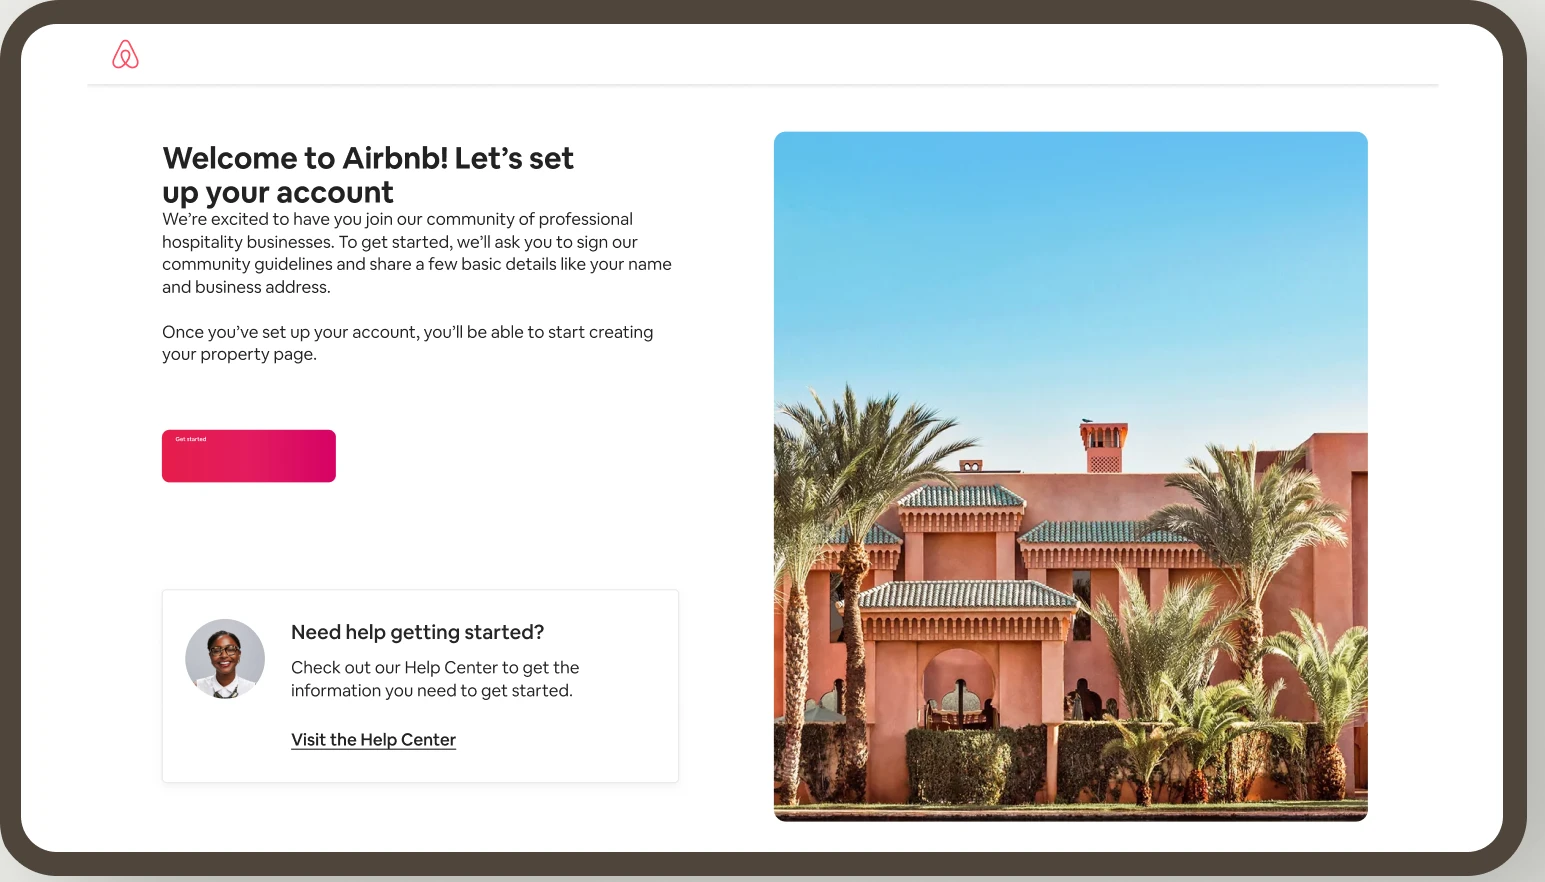
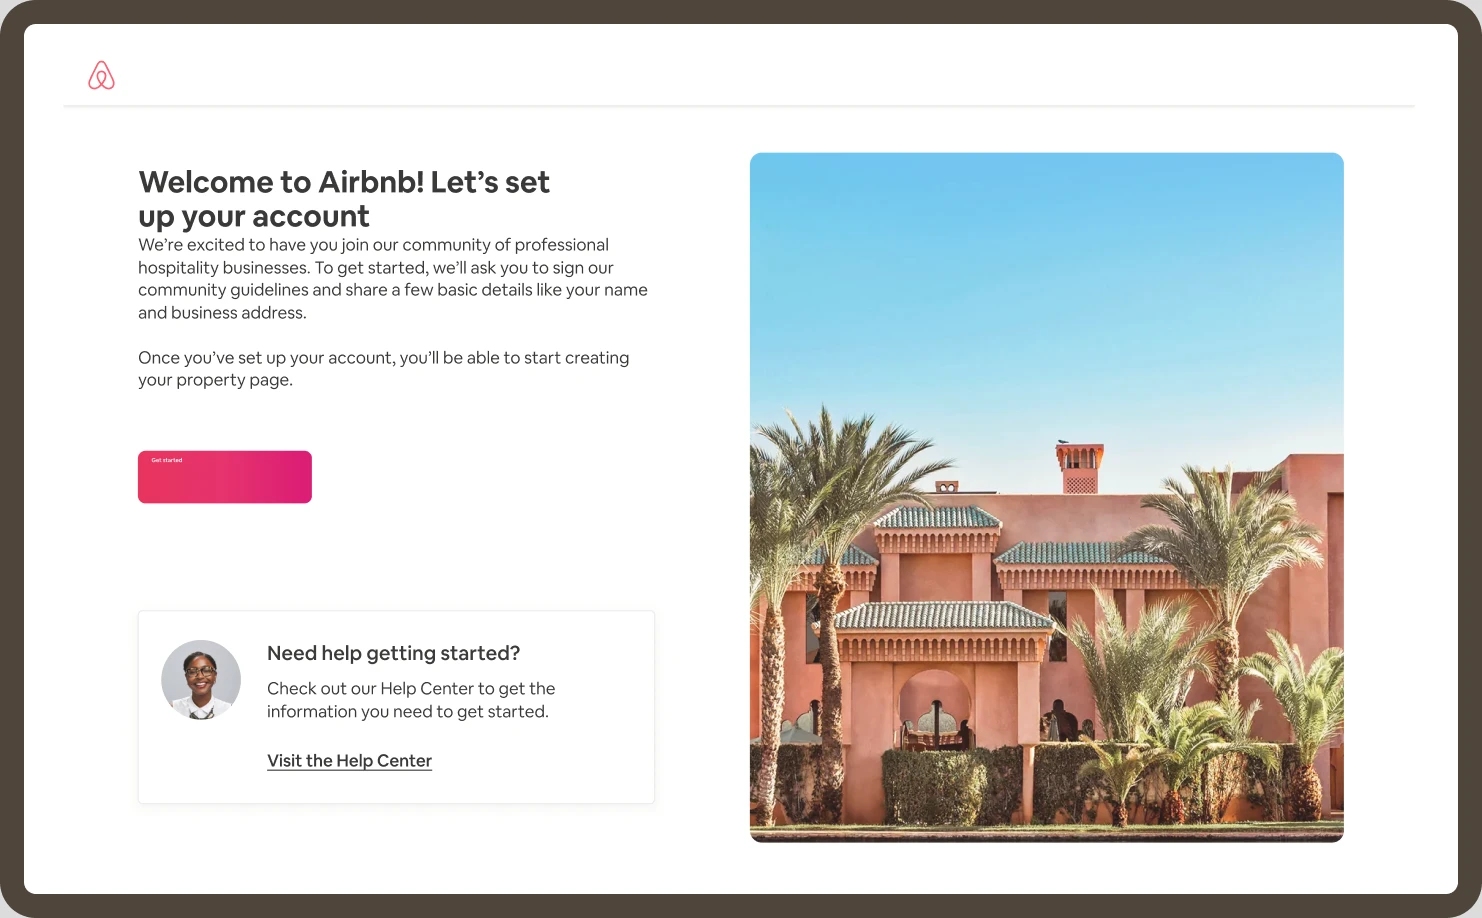
Fix Airbnb CTA button proportions, re-verify Headspace/Yahoo exports
Measured the exact bug: the "Get started" button in the deployed
Airbnb asset was 57% of its correct height relative to the card
(width ratio matched Figma at 0.1174, height was 0.0317 vs the real
0.0556) — a vertical-only squish. Traced it to the export technique:
cloning a node and reparenting the clone into a newly-created frame
(the matte-compositing trick used to get a clean background) distorts
masked content in a way rescale()-in-place doesn't. Re-exported Airbnb
from the referenced clean reference frame (784:121413, a real Figma
FRAME with border+shadow as its own properties, no group/mask
reparenting needed) — measured button ratio now 0.1174/0.0566,
matching Figma exactly.

Re-verified Headspace and Yahoo the same way (clone -> rescale in
place -> screenshot directly, no reparenting) as a precaution since
they used the same technique: pixel-diffed against the deployed
assets and found no meaningful difference (mean diff ~3/255, i.e.
compression noise) — those two were not actually affected. Replaced
Headspace's asset anyway with the safer non-reparented export for
consistency; Yahoo's deployed asset is unchanged.

diff --git a/src/lib/home.ts b/src/lib/home.ts
@@ -59,8 +59,8 @@ export const projects: Project[] = [
     image: {
       src: "/headspace/thumbnail.webp",
       alt: "Screenshot of the Headspace enrollment eligibility screen from the Unified Main Door admin portal, with the device bezel baked into the image",
-      width: 1548,
-      height: 882,
+      width: 1525,
+      height: 875,
     },
     imageLabel: "",
     skills: [
@@ -80,8 +80,8 @@ export const projects: Project[] = [
     image: {
       src: "/airbnb/thumbnail.webp",
       alt: "Figma mockup of the Airbnb hotel partner account creation and onboarding flow, showing the welcome screen with a Get started button",
-      width: 1545,
-      height: 882,
+      width: 1482,
+      height: 918,
     },
     imageLabel: "",
     skills: [
